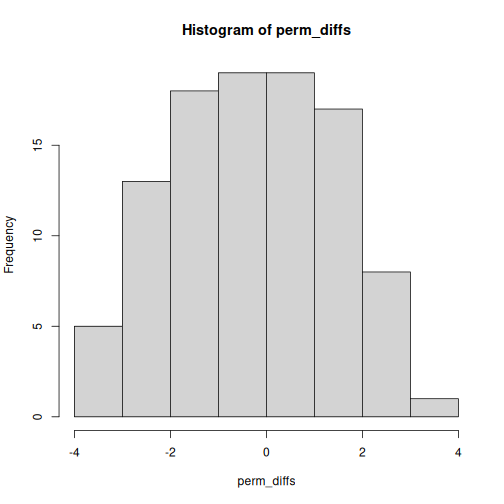
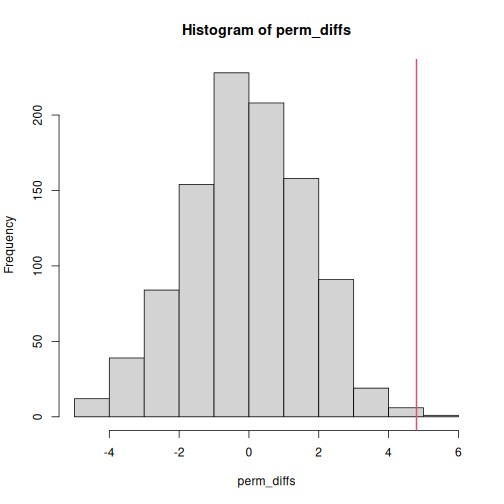
usable lecture

diff --git a/23_ComputerAgeStats.html b/23_ComputerAgeStats.html
@@ -1,7 +1,7 @@
 <!DOCTYPE html>
 <html lang="" xml:lang="">
   <head>
-    <title>Statistical Inferece</title>
+    <title>Statistical Inference</title>
     <meta charset="utf-8" />
     <meta name="author" content="Diogo Melo" />
     <script src="23_ComputerAgeStats_files/header-attrs-2.21/header-attrs.js"></script>
@@ -15,7 +15,7 @@
 class: center, middle, inverse, title-slide
 
 .title[
-# Statistical Inferece
+# Statistical Inference
 ]
 .subtitle[
 ## A list of references for computer-age statistics
@@ -280,7 +280,7 @@ sap_data %&gt;%
 ```
 
 ```
-## [1] -0.4
+## [1] -2.8
 ```
 ]
 
@@ -304,7 +304,7 @@ sap_data %&gt;%
 
 ```r
 # Repeat steps 3 and 4 many times
-perm_diffs &lt;- map_dbl(1:100, 
+perm_diffs &lt;- map_dbl(1:1000, 
     function(x)
       sap_data %&gt;% 
         mutate(location_perm = 
@@ -318,7 +318,7 @@ summary(perm_diffs)
 
 ```
 ##    Min. 1st Qu.  Median    Mean 3rd Qu.    Max. 
-##  -3.800  -1.400  -0.300  -0.206   1.200   3.600
+## -5.0000 -1.2000  0.0000  0.0184  1.2000  5.4000
 ```
 ]
 
@@ -342,7 +342,7 @@ sum(obs_diff &lt; perm_diffs)/length(perm_diffs)
 ```
 
 ```
-## [1] 0
+## [1] 0.002
 ```
 ]
 .pull-right[
